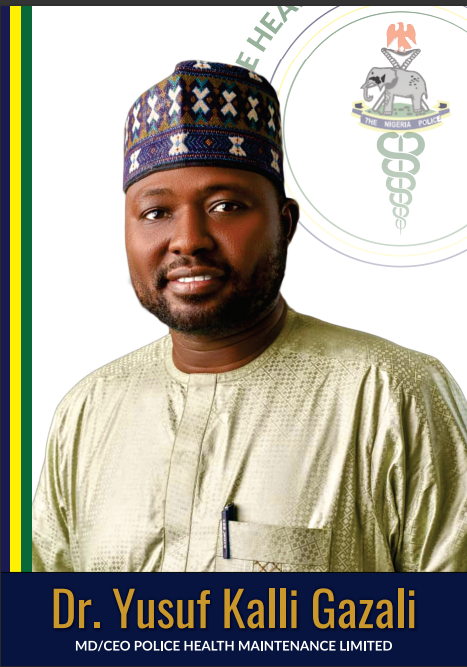
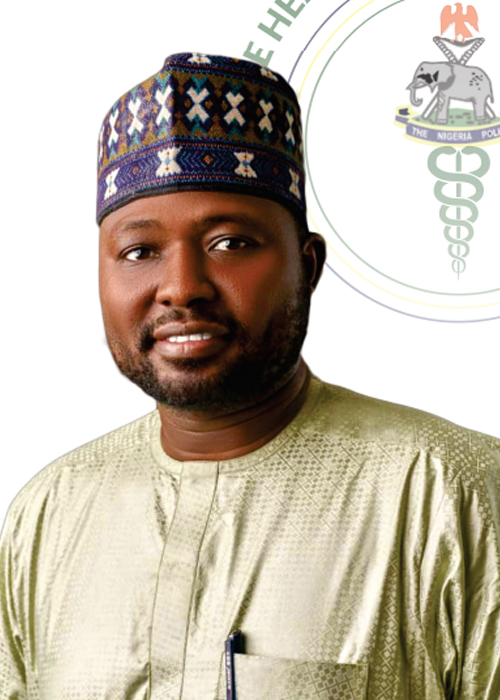
Refactor the website

diff --git a/public/css/production.css b/public/css/production.css
@@ -1,1 +1,1 @@
-*,:before,:after{box-sizing:border-box;border-width:0;border-style:solid;border-color:#e5e7eb}:before,:after{--tw-content: ""}html{line-height:1.5;-webkit-text-size-adjust:100%;-moz-tab-size:4;-o-tab-size:4;tab-size:4;font-family:ui-sans-serif,system-ui,-apple-system,BlinkMacSystemFont,Segoe UI,Roboto,Helvetica Neue,Arial,Noto Sans,sans-serif,"Apple Color Emoji","Segoe UI Emoji",Segoe UI Symbol,"Noto Color Emoji";font-feature-settings:normal}body{margin:0;line-height:inherit}hr{height:0;color:inherit;border-top-width:1px}abbr:where([title]){-webkit-text-decoration:underline dotted;text-decoration:underline dotted}h1,h2,h3,h4,h5,h6{font-size:inherit;font-weight:inherit}a{color:inherit;text-decoration:inherit}b,strong{font-weight:bolder}code,kbd,samp,pre{font-family:ui-monospace,SFMono-Regular,Menlo,Monaco,Consolas,Liberation Mono,Courier New,monospace;font-size:1em}small{font-size:80%}sub,sup{font-size:75%;line-height:0;position:relative;vertical-align:baseline}sub{bottom:-.25em}sup{top:-.5em}table{text-indent:0;border-color:inherit;border-collapse:collapse}button,input,optgroup,select,textarea{font-family:inherit;font-size:100%;font-weight:inherit;line-height:inherit;color:inherit;margin:0;padding:0}button,select{text-transform:none}button,[type=button],[type=reset],[type=submit]{-webkit-appearance:button;background-color:transparent;background-image:none}:-moz-focusring{outline:auto}:-moz-ui-invalid{box-shadow:none}progress{vertical-align:baseline}::-webkit-inner-spin-button,::-webkit-outer-spin-button{height:auto}[type=search]{-webkit-appearance:textfield;outline-offset:-2px}::-webkit-search-decoration{-webkit-appearance:none}::-webkit-file-upload-button{-webkit-appearance:button;font:inherit}summary{display:list-item}blockquote,dl,dd,h1,h2,h3,h4,h5,h6,hr,figure,p,pre{margin:0}fieldset{margin:0;padding:0}legend{padding:0}ol,ul,menu{list-style:none;margin:0;padding:0}textarea{resize:vertical}input::-moz-placeholder,textarea::-moz-placeholder{opacity:1;color:#9ca3af}input::placeholder,textarea::placeholder{opacity:1;color:#9ca3af}button,[role=button]{cursor:pointer}:disabled{cursor:default}img,svg,video,canvas,audio,iframe,embed,object{display:block;vertical-align:middle}img,video{max-width:100%;height:auto}[hidden]{display:none}*,:before,:after{--tw-border-spacing-x: 0;--tw-border-spacing-y: 0;--tw-translate-x: 0;--tw-translate-y: 0;--tw-rotate: 0;--tw-skew-x: 0;--tw-skew-y: 0;--tw-scale-x: 1;--tw-scale-y: 1;--tw-pan-x: ;--tw-pan-y: ;--tw-pinch-zoom: ;--tw-scroll-snap-strictness: proximity;--tw-ordinal: ;--tw-slashed-zero: ;--tw-numeric-figure: ;--tw-numeric-spacing: ;--tw-numeric-fraction: ;--tw-ring-inset: ;--tw-ring-offset-width: 0px;--tw-ring-offset-color: #fff;--tw-ring-color: rgb(59 130 246 / .5);--tw-ring-offset-shadow: 0 0 #0000;--tw-ring-shadow: 0 0 #0000;--tw-shadow: 0 0 #0000;--tw-shadow-colored: 0 0 #0000;--tw-blur: ;--tw-brightness: ;--tw-contrast: ;--tw-grayscale: ;--tw-hue-rotate: ;--tw-invert: ;--tw-saturate: ;--tw-sepia: ;--tw-drop-shadow: ;--tw-backdrop-blur: ;--tw-backdrop-brightness: ;--tw-backdrop-contrast: ;--tw-backdrop-grayscale: ;--tw-backdrop-hue-rotate: ;--tw-backdrop-invert: ;--tw-backdrop-opacity: ;--tw-backdrop-saturate: ;--tw-backdrop-sepia: }::backdrop{--tw-border-spacing-x: 0;--tw-border-spacing-y: 0;--tw-translate-x: 0;--tw-translate-y: 0;--tw-rotate: 0;--tw-skew-x: 0;--tw-skew-y: 0;--tw-scale-x: 1;--tw-scale-y: 1;--tw-pan-x: ;--tw-pan-y: ;--tw-pinch-zoom: ;--tw-scroll-snap-strictness: proximity;--tw-ordinal: ;--tw-slashed-zero: ;--tw-numeric-figure: ;--tw-numeric-spacing: ;--tw-numeric-fraction: ;--tw-ring-inset: ;--tw-ring-offset-width: 0px;--tw-ring-offset-color: #fff;--tw-ring-color: rgb(59 130 246 / .5);--tw-ring-offset-shadow: 0 0 #0000;--tw-ring-shadow: 0 0 #0000;--tw-shadow: 0 0 #0000;--tw-shadow-colored: 0 0 #0000;--tw-blur: ;--tw-brightness: ;--tw-contrast: ;--tw-grayscale: ;--tw-hue-rotate: ;--tw-invert: ;--tw-saturate: ;--tw-sepia: ;--tw-drop-shadow: ;--tw-backdrop-blur: ;--tw-backdrop-brightness: ;--tw-backdrop-contrast: ;--tw-backdrop-grayscale: ;--tw-backdrop-hue-rotate: ;--tw-backdrop-invert: ;--tw-backdrop-opacity: ;--tw-backdrop-saturate: ;--tw-backdrop-sepia: }.fixed{position:fixed}.absolute{position:absolute}.relative{position:relative}.top-10{top:2.5rem}.top-52{top:13rem}.right-0{right:0px}.top-14{top:3.5rem}.top-16{top:4rem}.bottom-0{bottom:0px}.left-0{left:0px}.top-0{top:0px}.top-20{top:5rem}.top-12{top:3rem}.z-40{z-index:40}.z-50{z-index:50}.z-30{z-index:30}.col-span-1{grid-column:span 1 / span 1}.col-span-3{grid-column:span 3 / span 3}.float-left{float:left}.m-0{margin:0}.mx-auto{margin-left:auto;margin-right:auto}.my-2{margin-top:.5rem;margin-bottom:.5rem}.my-6{margin-top:1.5rem;margin-bottom:1.5rem}.my-4{margin-top:1rem;margin-bottom:1rem}.mt-8{margin-top:2rem}.mb-4{margin-bottom:1rem}.mt-4{margin-top:1rem}.mb-5{margin-bottom:1.25rem}.mb-3{margin-bottom:.75rem}.ml-3{margin-left:.75rem}.mt-3{margin-top:.75rem}.ml-2{margin-left:.5rem}.ml-1{margin-left:.25rem}.mt-1{margin-top:.25rem}.block{display:block}.inline-block{display:inline-block}.flex{display:flex}.hidden{display:none}.h-full{height:100%}.h-6{height:1.5rem}.h-screen{height:100vh}.w-full{width:100%}.w-64{width:16rem}.w-24{width:6rem}.w-1\/6{width:16.666667%}.w-6{width:1.5rem}.w-32{width:8rem}.w-2{width:.5rem}.w-48{width:12rem}.min-w-max{min-width:-moz-max-content;min-width:max-content}.flex-grow,.grow{flex-grow:1}.cursor-pointer{cursor:pointer}.list-none{list-style-type:none}.grid-cols-3{grid-template-columns:repeat(3,minmax(0,1fr))}.grid-cols-2{grid-template-columns:repeat(2,minmax(0,1fr))}.grid-cols-4{grid-template-columns:repeat(4,minmax(0,1fr))}.grid-cols-5{grid-template-columns:repeat(5,minmax(0,1fr))}.flex-col{flex-direction:column}.flex-wrap{flex-wrap:wrap}.items-center{align-items:center}.justify-center{justify-content:center}.justify-between{justify-content:space-between}.gap-6{gap:1.5rem}.gap-4{gap:1rem}.gap-8{gap:2rem}.gap-3{gap:.75rem}.overflow-hidden{overflow:hidden}.whitespace-nowrap{white-space:nowrap}.rounded-full{border-radius:9999px}.rounded{border-radius:.25rem}.rounded-lg{border-radius:.5rem}.rounded-tr-lg{border-top-right-radius:.5rem}.border-0{border-width:0px}.border-x-0{border-left-width:0px;border-right-width:0px}.border-b-0{border-bottom-width:0px}.border-t-0{border-top-width:0px}.border-b-2{border-bottom-width:2px}.border-b{border-bottom-width:1px}.border-t{border-top-width:1px}.border-none{border-style:none}.border-transparent{border-color:transparent}.border-green-600{--tw-border-opacity: 1;border-color:rgb(22 163 74 / var(--tw-border-opacity))}.bg-white{--tw-bg-opacity: 1;background-color:rgb(255 255 255 / var(--tw-bg-opacity))}.bg-gray-200{--tw-bg-opacity: 1;background-color:rgb(229 231 235 / var(--tw-bg-opacity))}.bg-green-700{--tw-bg-opacity: 1;background-color:rgb(21 128 61 / var(--tw-bg-opacity))}.bg-gray-100{--tw-bg-opacity: 1;background-color:rgb(243 244 246 / var(--tw-bg-opacity))}.bg-red-700{--tw-bg-opacity: 1;background-color:rgb(185 28 28 / var(--tw-bg-opacity))}.bg-gray-500{--tw-bg-opacity: 1;background-color:rgb(107 114 128 / var(--tw-bg-opacity))}.bg-transparent{background-color:transparent}.bg-gray-900{--tw-bg-opacity: 1;background-color:rgb(17 24 39 / var(--tw-bg-opacity))}.bg-clip-padding{background-clip:padding-box}.bg-no-repeat{background-repeat:no-repeat}.object-cover{-o-object-fit:cover;object-fit:cover}.p-4{padding:1rem}.p-8{padding:2rem}.p-5{padding:1.25rem}.p-0{padding:0}.p-2{padding:.5rem}.py-8{padding-top:2rem;padding-bottom:2rem}.px-8{padding-left:2rem;padding-right:2rem}.py-3{padding-top:.75rem;padding-bottom:.75rem}.py-16{padding-top:4rem;padding-bottom:4rem}.py-4{padding-top:1rem;padding-bottom:1rem}.px-6{padding-left:1.5rem;padding-right:1.5rem}.py-1{padding-top:.25rem;padding-bottom:.25rem}.px-24{padding-left:6rem;padding-right:6rem}.py-6{padding-top:1.5rem;padding-bottom:1.5rem}.px-4{padding-left:1rem;padding-right:1rem}.px-2{padding-left:.5rem;padding-right:.5rem}.py-2{padding-top:.5rem;padding-bottom:.5rem}.py-12{padding-top:3rem;padding-bottom:3rem}.py-7{padding-top:1.75rem;padding-bottom:1.75rem}.pt-8{padding-top:2rem}.pb-5{padding-bottom:1.25rem}.pb-8{padding-bottom:2rem}.pl-0{padding-left:0}.pb-16{padding-bottom:4rem}.pb-6{padding-bottom:1.5rem}.pt-20{padding-top:5rem}.text-left{text-align:left}.text-center{text-align:center}.text-justify{text-align:justify}.text-xl{font-size:1.25rem;line-height:1.75rem}.text-2xl{font-size:1.5rem;line-height:2rem}.text-lg{font-size:1.125rem;line-height:1.75rem}.text-sm{font-size:.875rem;line-height:1.25rem}.text-xs{font-size:.75rem;line-height:1rem}.text-3xl{font-size:1.875rem;line-height:2.25rem}.text-base{font-size:1rem;line-height:1.5rem}.font-semibold{font-weight:600}.font-medium{font-weight:500}.font-extrabold{font-weight:800}.font-normal{font-weight:400}.font-bold{font-weight:700}.uppercase{text-transform:uppercase}.text-white{--tw-text-opacity: 1;color:rgb(255 255 255 / var(--tw-text-opacity))}.text-gray-700{--tw-text-opacity: 1;color:rgb(55 65 81 / var(--tw-text-opacity))}.text-green-500{--tw-text-opacity: 1;color:rgb(34 197 94 / var(--tw-text-opacity))}.text-green-600{--tw-text-opacity: 1;color:rgb(22 163 74 / var(--tw-text-opacity))}.text-blue-700{--tw-text-opacity: 1;color:rgb(29 78 216 / var(--tw-text-opacity))}.text-gray-900{--tw-text-opacity: 1;color:rgb(17 24 39 / var(--tw-text-opacity))}.shadow{--tw-shadow: 0 1px 3px 0 rgb(0 0 0 / .1), 0 1px 2px -1px rgb(0 0 0 / .1);--tw-shadow-colored: 0 1px 3px 0 var(--tw-shadow-color), 0 1px 2px -1px var(--tw-shadow-color);box-shadow:var(--tw-ring-offset-shadow, 0 0 #0000),var(--tw-ring-shadow, 0 0 #0000),var(--tw-shadow)}.shadow-lg{--tw-shadow: 0 10px 15px -3px rgb(0 0 0 / .1), 0 4px 6px -4px rgb(0 0 0 / .1);--tw-shadow-colored: 0 10px 15px -3px var(--tw-shadow-color), 0 4px 6px -4px var(--tw-shadow-color);box-shadow:var(--tw-ring-offset-shadow, 0 0 #0000),var(--tw-ring-shadow, 0 0 #0000),var(--tw-shadow)}.hover\:border-b-2:hover{border-bottom-width:2px}.hover\:border-transparent:hover{border-color:transparent}.hover\:border-green-600:hover{--tw-border-opacity: 1;border-color:rgb(22 163 74 / var(--tw-border-opacity))}.hover\:bg-gray-100:hover{--tw-bg-opacity: 1;background-color:rgb(243 244 246 / var(--tw-bg-opacity))}.hover\:text-green-600:hover{--tw-text-opacity: 1;color:rgb(22 163 74 / var(--tw-text-opacity))}.hover\:text-gray-800:hover{--tw-text-opacity: 1;color:rgb(31 41 55 / var(--tw-text-opacity))}.hover\:no-underline:hover{text-decoration-line:none}.hover\:outline-none:hover{outline:2px solid transparent;outline-offset:2px}.focus\:border-transparent:focus{border-color:transparent}.focus\:no-underline:focus{text-decoration-line:none}.focus\:outline-none:focus{outline:2px solid transparent;outline-offset:2px}@media (min-width: 640px){.sm\:h-screen{height:100vh}}@media (min-width: 768px){.md\:flex-row{flex-direction:row}}@media (min-width: 1024px){.lg\:top-48{top:12rem}.lg\:top-8{top:2rem}.lg\:col-span-2{grid-column:span 2 / span 2}.lg\:col-span-3{grid-column:span 3 / span 3}.lg\:ml-auto{margin-left:auto}.lg\:ml-0{margin-left:0}.lg\:block{display:block}.lg\:flex{display:flex}.lg\:grid{display:grid}.lg\:hidden{display:none}.lg\:h-auto{height:auto}.lg\:w-1\/6{width:16.666667%}.lg\:w-1\/3{width:33.333333%}.lg\:w-3\/4{width:75%}.lg\:w-64{width:16rem}.lg\:px-24{padding-left:6rem;padding-right:6rem}.lg\:py-4{padding-top:1rem;padding-bottom:1rem}.lg\:text-3xl{font-size:1.875rem;line-height:2.25rem}.lg\:text-xl{font-size:1.25rem;line-height:1.75rem}.lg\:text-5xl{font-size:3rem;line-height:1}.lg\:text-sm{font-size:.875rem;line-height:1.25rem}.lg\:text-lg{font-size:1.125rem;line-height:1.75rem}.lg\:text-4xl{font-size:2.25rem;line-height:2.5rem}.lg\:text-2xl{font-size:1.5rem;line-height:2rem}}
+*,:before,:after{box-sizing:border-box;border-width:0;border-style:solid;border-color:#e5e7eb}:before,:after{--tw-content: ""}html{line-height:1.5;-webkit-text-size-adjust:100%;-moz-tab-size:4;-o-tab-size:4;tab-size:4;font-family:ui-sans-serif,system-ui,-apple-system,BlinkMacSystemFont,Segoe UI,Roboto,Helvetica Neue,Arial,Noto Sans,sans-serif,"Apple Color Emoji","Segoe UI Emoji",Segoe UI Symbol,"Noto Color Emoji";font-feature-settings:normal}body{margin:0;line-height:inherit}hr{height:0;color:inherit;border-top-width:1px}abbr:where([title]){-webkit-text-decoration:underline dotted;text-decoration:underline dotted}h1,h2,h3,h4,h5,h6{font-size:inherit;font-weight:inherit}a{color:inherit;text-decoration:inherit}b,strong{font-weight:bolder}code,kbd,samp,pre{font-family:ui-monospace,SFMono-Regular,Menlo,Monaco,Consolas,Liberation Mono,Courier New,monospace;font-size:1em}small{font-size:80%}sub,sup{font-size:75%;line-height:0;position:relative;vertical-align:baseline}sub{bottom:-.25em}sup{top:-.5em}table{text-indent:0;border-color:inherit;border-collapse:collapse}button,input,optgroup,select,textarea{font-family:inherit;font-size:100%;font-weight:inherit;line-height:inherit;color:inherit;margin:0;padding:0}button,select{text-transform:none}button,[type=button],[type=reset],[type=submit]{-webkit-appearance:button;background-color:transparent;background-image:none}:-moz-focusring{outline:auto}:-moz-ui-invalid{box-shadow:none}progress{vertical-align:baseline}::-webkit-inner-spin-button,::-webkit-outer-spin-button{height:auto}[type=search]{-webkit-appearance:textfield;outline-offset:-2px}::-webkit-search-decoration{-webkit-appearance:none}::-webkit-file-upload-button{-webkit-appearance:button;font:inherit}summary{display:list-item}blockquote,dl,dd,h1,h2,h3,h4,h5,h6,hr,figure,p,pre{margin:0}fieldset{margin:0;padding:0}legend{padding:0}ol,ul,menu{list-style:none;margin:0;padding:0}textarea{resize:vertical}input::-moz-placeholder,textarea::-moz-placeholder{opacity:1;color:#9ca3af}input::placeholder,textarea::placeholder{opacity:1;color:#9ca3af}button,[role=button]{cursor:pointer}:disabled{cursor:default}img,svg,video,canvas,audio,iframe,embed,object{display:block;vertical-align:middle}img,video{max-width:100%;height:auto}[hidden]{display:none}*,:before,:after{--tw-border-spacing-x: 0;--tw-border-spacing-y: 0;--tw-translate-x: 0;--tw-translate-y: 0;--tw-rotate: 0;--tw-skew-x: 0;--tw-skew-y: 0;--tw-scale-x: 1;--tw-scale-y: 1;--tw-pan-x: ;--tw-pan-y: ;--tw-pinch-zoom: ;--tw-scroll-snap-strictness: proximity;--tw-ordinal: ;--tw-slashed-zero: ;--tw-numeric-figure: ;--tw-numeric-spacing: ;--tw-numeric-fraction: ;--tw-ring-inset: ;--tw-ring-offset-width: 0px;--tw-ring-offset-color: #fff;--tw-ring-color: rgb(59 130 246 / .5);--tw-ring-offset-shadow: 0 0 #0000;--tw-ring-shadow: 0 0 #0000;--tw-shadow: 0 0 #0000;--tw-shadow-colored: 0 0 #0000;--tw-blur: ;--tw-brightness: ;--tw-contrast: ;--tw-grayscale: ;--tw-hue-rotate: ;--tw-invert: ;--tw-saturate: ;--tw-sepia: ;--tw-drop-shadow: ;--tw-backdrop-blur: ;--tw-backdrop-brightness: ;--tw-backdrop-contrast: ;--tw-backdrop-grayscale: ;--tw-backdrop-hue-rotate: ;--tw-backdrop-invert: ;--tw-backdrop-opacity: ;--tw-backdrop-saturate: ;--tw-backdrop-sepia: }::backdrop{--tw-border-spacing-x: 0;--tw-border-spacing-y: 0;--tw-translate-x: 0;--tw-translate-y: 0;--tw-rotate: 0;--tw-skew-x: 0;--tw-skew-y: 0;--tw-scale-x: 1;--tw-scale-y: 1;--tw-pan-x: ;--tw-pan-y: ;--tw-pinch-zoom: ;--tw-scroll-snap-strictness: proximity;--tw-ordinal: ;--tw-slashed-zero: ;--tw-numeric-figure: ;--tw-numeric-spacing: ;--tw-numeric-fraction: ;--tw-ring-inset: ;--tw-ring-offset-width: 0px;--tw-ring-offset-color: #fff;--tw-ring-color: rgb(59 130 246 / .5);--tw-ring-offset-shadow: 0 0 #0000;--tw-ring-shadow: 0 0 #0000;--tw-shadow: 0 0 #0000;--tw-shadow-colored: 0 0 #0000;--tw-blur: ;--tw-brightness: ;--tw-contrast: ;--tw-grayscale: ;--tw-hue-rotate: ;--tw-invert: ;--tw-saturate: ;--tw-sepia: ;--tw-drop-shadow: ;--tw-backdrop-blur: ;--tw-backdrop-brightness: ;--tw-backdrop-contrast: ;--tw-backdrop-grayscale: ;--tw-backdrop-hue-rotate: ;--tw-backdrop-invert: ;--tw-backdrop-opacity: ;--tw-backdrop-saturate: ;--tw-backdrop-sepia: }.collapse{visibility:collapse}.fixed{position:fixed}.absolute{position:absolute}.relative{position:relative}.top-10{top:2.5rem}.top-52{top:13rem}.top-14{top:3.5rem}.top-16{top:4rem}.right-0{right:0px}.bottom-0{bottom:0px}.left-0{left:0px}.top-0{top:0px}.top-20{top:5rem}.top-12{top:3rem}.z-40{z-index:40}.z-50{z-index:50}.z-30{z-index:30}.col-span-1{grid-column:span 1 / span 1}.float-left{float:left}.m-3{margin:.75rem}.m-0{margin:0}.mx-auto{margin-left:auto;margin-right:auto}.my-2{margin-top:.5rem;margin-bottom:.5rem}.my-6{margin-top:1.5rem;margin-bottom:1.5rem}.my-4{margin-top:1rem;margin-bottom:1rem}.mt-8{margin-top:2rem}.mb-4{margin-bottom:1rem}.mt-4{margin-top:1rem}.mb-5{margin-bottom:1.25rem}.mt-3{margin-top:.75rem}.mb-8{margin-bottom:2rem}.mb-0{margin-bottom:0}.ml-2{margin-left:.5rem}.ml-1{margin-left:.25rem}.mt-1{margin-top:.25rem}.mb-3{margin-bottom:.75rem}.block{display:block}.inline-block{display:inline-block}.flex{display:flex}.hidden{display:none}.h-6{height:1.5rem}.h-screen{height:100vh}.w-full{width:100%}.w-64{width:16rem}.w-16{width:4rem}.w-1\/6{width:16.666667%}.w-6{width:1.5rem}.w-32{width:8rem}.w-2{width:.5rem}.w-48{width:12rem}.min-w-max{min-width:-moz-max-content;min-width:max-content}.flex-grow,.grow{flex-grow:1}.cursor-pointer{cursor:pointer}.list-none{list-style-type:none}.grid-cols-3{grid-template-columns:repeat(3,minmax(0,1fr))}.grid-cols-2{grid-template-columns:repeat(2,minmax(0,1fr))}.grid-cols-4{grid-template-columns:repeat(4,minmax(0,1fr))}.grid-cols-5{grid-template-columns:repeat(5,minmax(0,1fr))}.flex-col{flex-direction:column}.flex-wrap{flex-wrap:wrap}.items-center{align-items:center}.justify-center{justify-content:center}.justify-between{justify-content:space-between}.gap-6{gap:1.5rem}.gap-4{gap:1rem}.gap-8{gap:2rem}.gap-3{gap:.75rem}.overflow-hidden{overflow:hidden}.whitespace-nowrap{white-space:nowrap}.rounded-full{border-radius:9999px}.rounded-none{border-radius:0}.rounded{border-radius:.25rem}.rounded-lg{border-radius:.5rem}.rounded-tr-lg{border-top-right-radius:.5rem}.border{border-width:1px}.border-0{border-width:0px}.border-x-0{border-left-width:0px;border-right-width:0px}.border-b-0{border-bottom-width:0px}.border-t-0{border-top-width:0px}.border-b-2{border-bottom-width:2px}.border-b{border-bottom-width:1px}.border-t{border-top-width:1px}.border-none{border-style:none}.border-transparent{border-color:transparent}.border-gray-200{--tw-border-opacity: 1;border-color:rgb(229 231 235 / var(--tw-border-opacity))}.border-green-600{--tw-border-opacity: 1;border-color:rgb(22 163 74 / var(--tw-border-opacity))}.bg-white{--tw-bg-opacity: 1;background-color:rgb(255 255 255 / var(--tw-bg-opacity))}.bg-gray-200{--tw-bg-opacity: 1;background-color:rgb(229 231 235 / var(--tw-bg-opacity))}.bg-green-700{--tw-bg-opacity: 1;background-color:rgb(21 128 61 / var(--tw-bg-opacity))}.bg-gray-100{--tw-bg-opacity: 1;background-color:rgb(243 244 246 / var(--tw-bg-opacity))}.bg-red-700{--tw-bg-opacity: 1;background-color:rgb(185 28 28 / var(--tw-bg-opacity))}.bg-gray-500{--tw-bg-opacity: 1;background-color:rgb(107 114 128 / var(--tw-bg-opacity))}.bg-transparent{background-color:transparent}.bg-gray-900{--tw-bg-opacity: 1;background-color:rgb(17 24 39 / var(--tw-bg-opacity))}.bg-clip-padding{background-clip:padding-box}.bg-no-repeat{background-repeat:no-repeat}.p-4{padding:1rem}.p-8{padding:2rem}.p-5{padding:1.25rem}.p-0{padding:0}.p-2{padding:.5rem}.py-8{padding-top:2rem;padding-bottom:2rem}.px-8{padding-left:2rem;padding-right:2rem}.py-3{padding-top:.75rem;padding-bottom:.75rem}.py-16{padding-top:4rem;padding-bottom:4rem}.py-4{padding-top:1rem;padding-bottom:1rem}.px-6{padding-left:1.5rem;padding-right:1.5rem}.py-1{padding-top:.25rem;padding-bottom:.25rem}.px-5{padding-left:1.25rem;padding-right:1.25rem}.px-10{padding-left:2.5rem;padding-right:2.5rem}.px-4{padding-left:1rem;padding-right:1rem}.py-5{padding-top:1.25rem;padding-bottom:1.25rem}.px-2{padding-left:.5rem;padding-right:.5rem}.py-2{padding-top:.5rem;padding-bottom:.5rem}.py-12{padding-top:3rem;padding-bottom:3rem}.py-7{padding-top:1.75rem;padding-bottom:1.75rem}.pt-8{padding-top:2rem}.pb-5{padding-bottom:1.25rem}.pb-8{padding-bottom:2rem}.pl-0{padding-left:0}.pb-6{padding-bottom:1.5rem}.pt-20{padding-top:5rem}.text-left{text-align:left}.text-center{text-align:center}.text-justify{text-align:justify}.text-xl{font-size:1.25rem;line-height:1.75rem}.text-2xl{font-size:1.5rem;line-height:2rem}.text-lg{font-size:1.125rem;line-height:1.75rem}.text-sm{font-size:.875rem;line-height:1.25rem}.text-xs{font-size:.75rem;line-height:1rem}.text-base{font-size:1rem;line-height:1.5rem}.text-3xl{font-size:1.875rem;line-height:2.25rem}.font-semibold{font-weight:600}.font-medium{font-weight:500}.font-extrabold{font-weight:800}.font-normal{font-weight:400}.font-bold{font-weight:700}.uppercase{text-transform:uppercase}.text-gray-800{--tw-text-opacity: 1;color:rgb(31 41 55 / var(--tw-text-opacity))}.text-white{--tw-text-opacity: 1;color:rgb(255 255 255 / var(--tw-text-opacity))}.text-gray-700{--tw-text-opacity: 1;color:rgb(55 65 81 / var(--tw-text-opacity))}.text-green-500{--tw-text-opacity: 1;color:rgb(34 197 94 / var(--tw-text-opacity))}.text-green-600{--tw-text-opacity: 1;color:rgb(22 163 74 / var(--tw-text-opacity))}.text-blue-700{--tw-text-opacity: 1;color:rgb(29 78 216 / var(--tw-text-opacity))}.text-gray-900{--tw-text-opacity: 1;color:rgb(17 24 39 / var(--tw-text-opacity))}.shadow{--tw-shadow: 0 1px 3px 0 rgb(0 0 0 / .1), 0 1px 2px -1px rgb(0 0 0 / .1);--tw-shadow-colored: 0 1px 3px 0 var(--tw-shadow-color), 0 1px 2px -1px var(--tw-shadow-color);box-shadow:var(--tw-ring-offset-shadow, 0 0 #0000),var(--tw-ring-shadow, 0 0 #0000),var(--tw-shadow)}.shadow-lg{--tw-shadow: 0 10px 15px -3px rgb(0 0 0 / .1), 0 4px 6px -4px rgb(0 0 0 / .1);--tw-shadow-colored: 0 10px 15px -3px var(--tw-shadow-color), 0 4px 6px -4px var(--tw-shadow-color);box-shadow:var(--tw-ring-offset-shadow, 0 0 #0000),var(--tw-ring-shadow, 0 0 #0000),var(--tw-shadow)}.transition{transition-property:color,background-color,border-color,text-decoration-color,fill,stroke,opacity,box-shadow,transform,filter,-webkit-backdrop-filter;transition-property:color,background-color,border-color,text-decoration-color,fill,stroke,opacity,box-shadow,transform,filter,backdrop-filter;transition-property:color,background-color,border-color,text-decoration-color,fill,stroke,opacity,box-shadow,transform,filter,backdrop-filter,-webkit-backdrop-filter;transition-timing-function:cubic-bezier(.4,0,.2,1);transition-duration:.15s}.hover\:border-b-2:hover{border-bottom-width:2px}.hover\:border-transparent:hover{border-color:transparent}.hover\:border-green-600:hover{--tw-border-opacity: 1;border-color:rgb(22 163 74 / var(--tw-border-opacity))}.hover\:bg-gray-100:hover{--tw-bg-opacity: 1;background-color:rgb(243 244 246 / var(--tw-bg-opacity))}.hover\:text-green-600:hover{--tw-text-opacity: 1;color:rgb(22 163 74 / var(--tw-text-opacity))}.hover\:text-gray-800:hover{--tw-text-opacity: 1;color:rgb(31 41 55 / var(--tw-text-opacity))}.hover\:underline:hover{text-decoration-line:underline}.hover\:no-underline:hover{text-decoration-line:none}.hover\:outline-none:hover{outline:2px solid transparent;outline-offset:2px}.focus\:border-transparent:focus{border-color:transparent}.focus\:no-underline:focus{text-decoration-line:none}.focus\:outline-none:focus{outline:2px solid transparent;outline-offset:2px}@media (min-width: 768px){.md\:flex-row{flex-direction:row}}@media (min-width: 1024px){.lg\:top-48{top:12rem}.lg\:top-8{top:2rem}.lg\:col-span-2{grid-column:span 2 / span 2}.lg\:col-span-3{grid-column:span 3 / span 3}.lg\:ml-auto{margin-left:auto}.lg\:ml-0{margin-left:0}.lg\:block{display:block}.lg\:flex{display:flex}.lg\:grid{display:grid}.lg\:hidden{display:none}.lg\:w-1\/6{width:16.666667%}.lg\:w-1\/3{width:33.333333%}.lg\:w-3\/4{width:75%}.lg\:w-64{width:16rem}.lg\:px-24{padding-left:6rem;padding-right:6rem}.lg\:py-4{padding-top:1rem;padding-bottom:1rem}.lg\:text-3xl{font-size:1.875rem;line-height:2.25rem}.lg\:text-xl{font-size:1.25rem;line-height:1.75rem}.lg\:text-5xl{font-size:3rem;line-height:1}.lg\:text-lg{font-size:1.125rem;line-height:1.75rem}.lg\:text-4xl{font-size:2.25rem;line-height:2.5rem}.lg\:text-2xl{font-size:1.5rem;line-height:2rem}}

diff --git a/public/css/main.css b/public/css/main.css
@@ -68,6 +68,23 @@ body{
     margin: 0px auto;
 }
 
+.slogan-logo{
+    animation: logo 5s ease forwards;
+}
+
+
+@keyframes logo{
+    0%{
+        transform: rotate(0deg);
+    }
+    50%{
+        transform: rotate(25deg);
+    }
+    100%{
+        transform: rotate(0deg);
+    }
+}
+
 @media only screen and (max-width:768px)
 {
     body{

diff --git a/resources/views/mds.blade.php b/resources/views/mds.blade.php
@@ -13,24 +13,57 @@
             <div class="text-center text-2xl lg:text-5xl font-semibold py-4 mb-5">MDs</div>
             
             <div class="lg:px-24 px-8 mx-auto pb-8 items-center">
-                <div class="text-center">
-                    <img class="w-64 mx-auto my-4" src="{{ asset('images/md-001.png') }}" alt="Dr. Yusuf Kalli Gazali Photo">
-                </div>
-            </div>
-            <div class="lg:px-24 px-8 mx-auto pb-8 lg:grid grid-cols-2 gap-6 items-center my-6">
-                <div class="text-center">
-                    <img class="w-64 mx-auto my-4" src="{{ asset('images/md-002.png') }}" alt="Mr. Ahmed Isyaku Photo">
-                </div>
-                <div class="text-center">
-                    <img class="w-64 mx-auto my-4" src="{{ asset('images/md-003.png') }}" alt="Mr. Abdulkarim Abubakar Photo">
-                </div>
-            </div>
-            <div class="lg:px-24 px-8 mx-auto pb-8 lg:grid grid-cols-2 gap-6 items-center my-6">
-                <div class="text-center">
-                    <img class="w-64 mx-auto my-4" src="{{ asset('images/md-004.png') }}" alt="Dr. Yinnang Wushipba Damwa Photo">
-                </div>
-                <div class="text-center">
-                    <img class="w-64 mx-auto my-4" src="{{ asset('images/md-005.png') }}" alt="Dr. Abdullahi Idris El-Agbo Photo">
+                <div class="lg:flex">
+                    <div class="border border-green-600 my-4">
+                        <div class="text-center">
+                            <img class="w-64 mx-auto mt-4" src="{{ asset('images/md-001.png') }}" alt="Dr. Yusuf Kalli Gazali Photo">
+                        </div>
+                        <div class="bg-gray-500 mx-auto text-center w-64 text-white py-3">
+                            <div class="text-lg">Dr Yusuf Kalli Gazali</div> 
+                            <div class="text-sm">MD/CEO POLICE HEALTH MAINTENANCE</div> 
+                            <div class="text-xs">June 2022 - Present</div> 
+                        </div>
+                    </div>
+                    <div class="border border-green-600 my-4">
+                        <div class="text-center">
+                            <img class="w-64 mx-auto mt-4" src="{{ asset('images/md-002.png') }}" alt="Dr Ahmad Garba Yakasai">
+                        </div>
+                        <div class="bg-gray-500 mx-auto text-center w-64 text-white py-3">
+                            <div class="text-lg">Dr Ahmad Garba Yakasai</div> 
+                            <div class="text-sm">MD/CEO POLICE HEALTH MAINTENANCE</div> 
+                            <div class="text-xs">October 2018 - June 2022</div> 
+                        </div>
+                    </div>
+                    <div class="border border-green-600 my-4">
+                        <div class="text-center">
+                            <img class="w-64 mx-auto mt-4" src="{{ asset('images/md-004.png') }}" alt="Dr Samuel Ali Photo">
+                        </div>
+                        <div class="bg-gray-500 mx-auto text-center w-64 text-white py-3">
+                            <div class="text-lg">Dr Samuel Ali</div> 
+                            <div class="text-sm">MD/CEO POLICE HEALTH MAINTENANCE</div> 
+                            <div class="text-xs">January 2018 - May 2018</div> 
+                        </div>
+                    </div>
+                    <div class="border border-green-600 my-4">
+                        <div class="text-center">
+                            <img class="w-64 mx-auto mt-4" src="{{ asset('images/md-005.png') }}" alt="AIG (RTD) Alex Emeka Okeke. psc, NPM. Photo">
+                        </div>
+                        <div class="bg-gray-500 mx-auto text-center w-64 text-white py-3">
+                            <div class="text-lg">AIG (RTD) Alex Emeka Okeke</div> 
+                            <div class="text-sm">MD/CEO POLICE HEALTH MAINTENANCE</div> 
+                            <div class="text-xs">January 2017 - December 2017</div> 
+                        </div>
+                    </div>
+                    <div class="border border-green-600 my-4">
+                        <div class="text-center">
+                            <img class="w-64 mx-auto mt-4" src="{{ asset('images/md-003.png') }}" alt="Mr. Abdulkarim Abubakar Photo">
+                        </div>
+                        <div class="bg-gray-500 mx-auto text-center w-64 text-white py-3">
+                            <div class="text-lg">Dr Donald Eneh</div> 
+                            <div class="text-sm">MD/CEO POLICE HEALTH MAINTENANCE</div> 
+                            <div class="text-xs">March 2013 - January 2017</div> 
+                        </div>
+                    </div>
                 </div>
             </div>
         </div>

diff --git a/resources/views/layouts/template.blade.php b/resources/views/layouts/template.blade.php
@@ -185,7 +185,7 @@
                         </li>
                         <li class="{{ ($page_title == 'contact-us') ? 'border-b-2 border-green-600' : '' }} py-1 hover:text-green-600 text-gray-700 hover:border-b-2 hover:border-green-600"><a href="{{ route('contact-us') }}">Contact Us</a></li>
                         <li class="py-1 hover:text-green-600 text-gray-700 hover:border-b-2 hover:border-green-600"><a href="https://erp.phmlnigeria.com/app/hospital/auth/">Provider's Portal</a></li>
-                        <li class="bg-green-700 px-4 py-2 rounded hover:text-green-600 text-white hover:border-b-2 hover:border-green-600"><a href="#">Register Now</a></li>
+                        <li class="bg-green-700 px-4 py-2 rounded hover:text-green-600 text-white hover:border-b-2 hover:border-green-600"><a href="https://erp.phmlnigeria.com/app/hospital/auth/">Register Now</a></li>
                     </nav>
                 </div>
             </div>
@@ -210,7 +210,31 @@
                 </li>
                 <hr>
                 <li class="py-3 px-8">
-                    <a href="#" class="flex justify-between items-center">
+                    <a href="{{ route('board') }}" class="flex justify-between items-center">
+                        <span>The Board</span>
+                        &nbsp;&nbsp;
+                        <span><i class="fa-solid fa-users text-2xl"></i></span>
+                    </a>
+                </li>
+                <hr>
+                <li class="py-3 px-8">
+                    <a href="{{ route('management') }}" class="flex justify-between items-center">
+                        <span>Management Team</span>
+                        &nbsp;&nbsp;
+                        <span><i class="fa-solid fa-users text-2xl"></i></span>
+                    </a>
+                </li>
+                <hr>
+                <li class="py-3 px-8">
+                    <a href="{{ route('mds') }}" class="flex justify-between items-center">
+                        <span>MDs</span>
+                        &nbsp;&nbsp;
+                        <span><i class="fa-solid fa-users text-2xl"></i></span>
+                    </a>
+                </li>
+                <hr>
+                <li class="py-3 px-8">
+                    <a href="{{ route('contact-us') }}" class="flex justify-between items-center">
                         <span>Contact Us</span>
                         &nbsp;&nbsp;
                         <span><i class="fa-solid fa-headset text-2xl"></i></span>
@@ -248,6 +272,21 @@
                                     <span>Our Offerings</span>
                                 </a>
                             </li>
+                            <li class="py-1 hover:text-gray-800">
+                                <a class="flex items-center py-1" href="{{ route('board') }}">
+                                    <span>The Board</span>
+                                </a>
+                            </li>
+                            <li class="py-1 hover:text-gray-800">
+                                <a class="flex items-center py-1" href="{{ route('management') }}">
+                                    <span>The Management</span>
+                                </a>
+                            </li>
+                            <li class="py-1 hover:text-gray-800">
+                                <a class="flex items-center py-1" href="{{ route('mds') }}">
+                                    <span>MDs</span>
+                                </a>
+                            </li>
                         </nav>
                     </div>
                 </div>
@@ -266,17 +305,12 @@
                                 </a>
                             </li>
                             <li class="py-1 hover:text-gray-800">
-                                <a class="flex items-center py-1" href="/#mission">
+                                <a class="flex items-center py-1" href="https://erp.phmlnigeria.com/app/hospital/auth/">
                                     <span>Apply Now</span>
                                 </a>
                             </li>
                             <li class="py-1 hover:text-gray-800">
-                                <a class="flex items-center py-1" href="#">
-                                    <span>Cookies and Privacy Policy</span>
-                                </a>
-                            </li>
-                            <li class="py-1 hover:text-gray-800">
-                                <a class="flex items-center py-1" href="https://erp.phmlnigeria.com/app/admin/">
+                                <a class="flex items-center py-1" href="https://webmail.phmlnigeria.com">
                                     <span>webmail</span>
                                 </a>
                             </li>

diff --git a/resources/views/welcome.blade.php b/resources/views/welcome.blade.php
@@ -9,46 +9,28 @@
     <div id="banner-img">
         @include('layouts.banner')
         <div class="absolute lg:top-48 top-52">
-            <div class="text-white font-extrabold p-8 bg-green-700 rounded-tr-lg" id="slogan">        
+            <div class="text-white font-extrabold p-8 rounded-tr-lg slogan-logo" id="slogan">        
                 <p class="flex justify-center text-white font-semibold p-5">
                     Introducing the Police HMO Providers' Portal
                 </p>
                 <p class="lg:text-lg">
-                    Code Requests, Claims Processing & Reconciliation has never been easier.
-                    Make submissions, get feedback & monitor progress ALL IN REAL TIME.
+                    Code Requests, Claims Processing & Reconciliation has never been easier. <br>
+                    Make submissions, get feedback & monitor progress ALL IN REAL TIME. <br>
                     So, what are you waiting for? Sign up and sign in now <br>
-                    <div class="mt-4 lg:w-1/6 mx-auto bg-gray-200 text-gray-700 px-2 py-2 rounded hover:text-green-600 hover:border-b-2 hover:border-green-600"><a href="#">Let's Go!</a></div>
+                    <div class="mt-4 lg:w-2/6 mx-auto bg-gray-200 text-gray-700 px-2 py-2 rounded hover:text-green-600 hover:border-b-2 hover:border-green-600"><a href="https://erp.phmlnigeria.com/app/hospital/auth/">Let's Go!</a></div>
                 </p>
             </div>
         </div>
     </div>
     <!-- Body Contents  -->
     <div class="pt-8 pb-5 text-justify">
-        <!-- Slogan  -->
-        <div class="lg:px-24 px-8 py-16 lg:grid grid-cols-2 gap-8 bg-gray-100">
-            <!-- About Us  -->
-            <div>
-                <div class="text-xl lg:text-3xl font-semibold py-2 border-b-2 border-green-600 w-full">Welcome to Police HMO</div>
-                    <p class="py-3 text-xl">
-                        We provide healthcare services to all serving and retired Police Men and their families, under the NHIS Scheme
-                    </p>
-            </div>
-            <div class="lg:flex justify-between items-center">
-                <p class="py-3 w-1/6 text-2xl lg:text-4xl">
-                    We cover treatments outside the NHIS Benefit Package (Tertiary Assistance)
-                </p>
-                <p>
-                    <div class="mt-4 lg:w-1/3 mx-auto bg-red-700 text-white lg:text-2xl text-xl text-center px-2 lg:py-4 py-2 rounded hover:text-green-600 hover:border-b-2 hover:border-green-600"><a href="#">How to Apply</a></div>    
-                </p>
-            </div>
-        </div>
+        
         <!-- Our Vision  -->
-        <div id="vision" class="bg-gray-500 py-8">
+        <!-- <div id="vision" class="bg-gray-500 py-8">
             <div class="pb-6">
                 <img class="lg:w-3/4 mx-auto relative top-14" src="{{ asset('images/police-man-family.png') }}" alt="police-man-family">
             </div>
-        </div>
-
+        </div> -->
         <!-- Our Mission  -->
         <div id="mission" class="bg-white mt-8 py-8">
             <div class="text-center text-2xl lg:text-4xl font-semibold py-12">We Are The Only HMO For The Nigeria Police Force</div>
@@ -89,6 +71,18 @@
                         </p>
                     </div>
                 </div>
+            </div>
+        </div>
+        <!-- Slogan  -->
+        <div class="lg:px-24 px-8 py-16 lg:w-1/2 mx-auto bg-white border">
+            <!-- About Us  -->
+            <div class="lg:flex justify-between items-center">
+                <p class="py-3 lg:w-3/6 text-2xl lg:text-2xl">
+                    We cover treatments outside the NHIS Benefit Package (Tertiary Assistance)
+                </p>
+                <p>
+                    <div class="mt-4 lg:w-1/3 mx-auto bg-green-700 text-white lg:text-xl text-xl text-center px-2 lg:py-3 py-2 rounded hover:text-green-600 hover:border-b-2 hover:border-green-600"><a href="https://erp.phmlnigeria.com/app/hospital/auth/">How to Apply</a></div>    
+                </p>
             </div>
         </div>
     </div>

diff --git a/resources/views/management.blade.php b/resources/views/management.blade.php
@@ -52,7 +52,7 @@
                 <div class="text-center">
                     <img class="w-64 mx-auto rounded-full my-4" src="{{ asset('images/cam.jpeg') }}" alt="Mrs. Aisha Ali Photo">
                     <div class="text-lg py-1 font-semibold">Mrs. Aisha Ali</div>
-                    <div class="text-xs py-1">Corporate Affairs Manager</div>
+                    <div class="text-xs py-1">Head, Corporate Affairs</div>
                 </div>
             </div>
             <div class="lg:px-24 px-8 mx-auto pb-8 lg:grid grid-cols-2 gap-6 items-center my-6">
